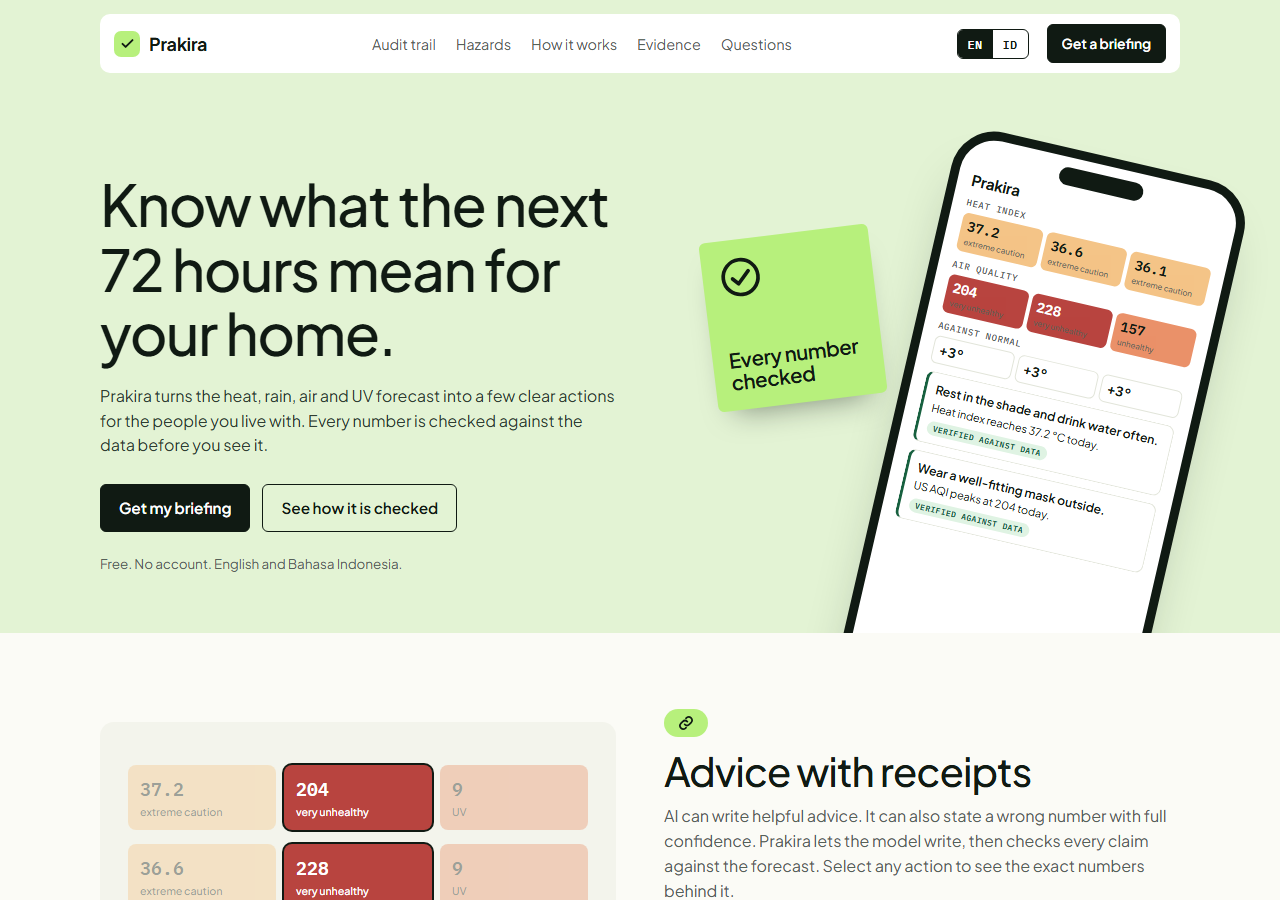
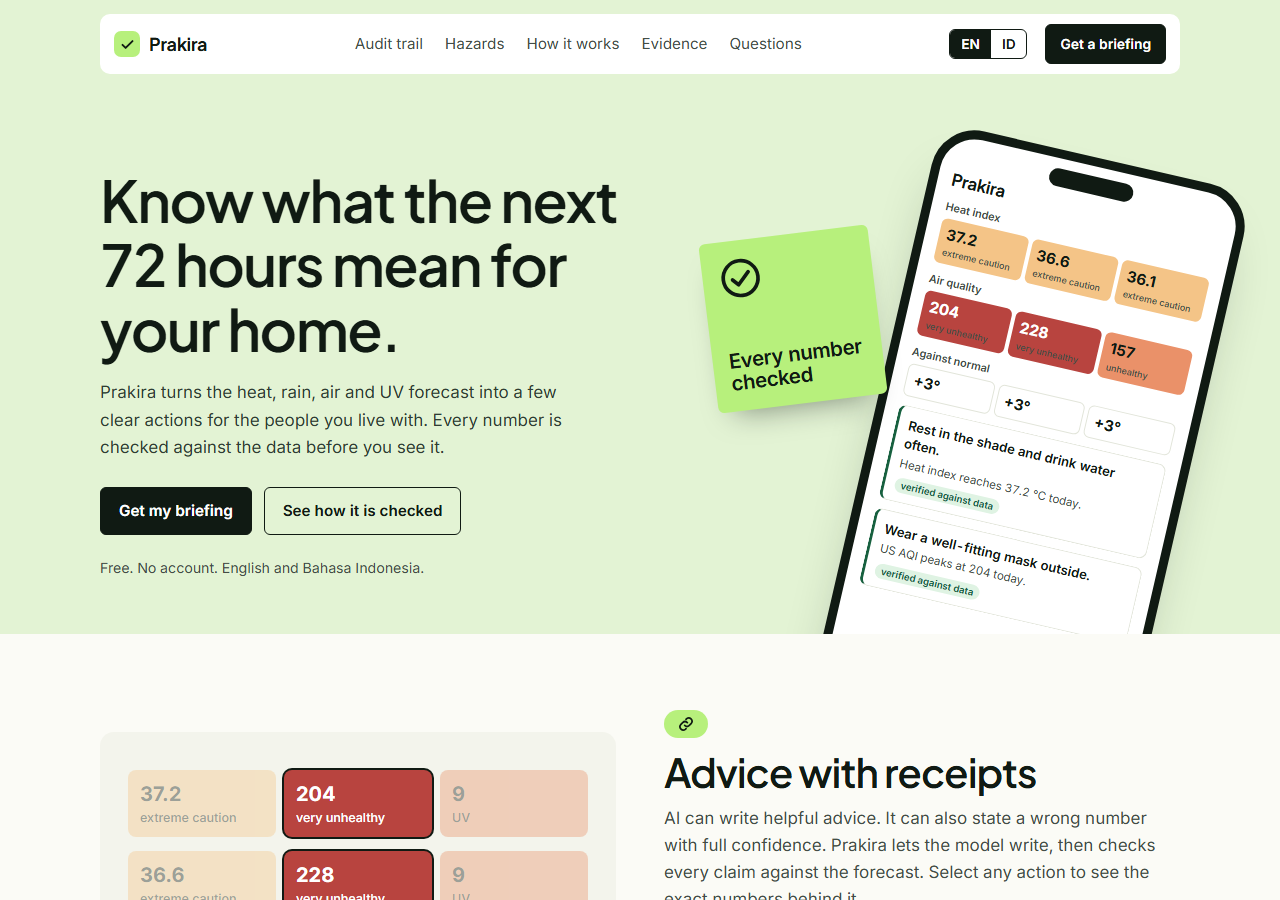
style: readability pass on the page
Drop the monospace face and the small uppercase labels, use Inter for text and
numbers with Plus Jakarta Sans for headings, raise text sizes and the contrast
of secondary text.

diff --git a/public/index.html b/public/index.html
@@ -8,25 +8,26 @@
 <meta name="color-scheme" content="light">
 <link rel="preconnect" href="https://fonts.googleapis.com">
 <link rel="preconnect" href="https://fonts.gstatic.com" crossorigin>
-<link href="https://fonts.googleapis.com/css2?family=IBM+Plex+Mono:wght@400;500;600&family=Plus+Jakarta+Sans:wght@400;500;600;700&display=swap" rel="stylesheet">
+<link href="https://fonts.googleapis.com/css2?family=Inter:wght@400;500;600;700&family=Plus+Jakarta+Sans:wght@500;600;700&display=swap" rel="stylesheet">
 <style>
   :root {
-    --paper:#fbfbf6; --card:#ffffff; --ink:#101a13; --mut:#566159; --rule:#e2e5da; --soft:#f3f4ec; --focus:#0b5fff;
+    --paper:#fbfbf6; --card:#ffffff; --ink:#101a13; --mut:#434d46; --rule:#e2e5da; --soft:#f3f4ec; --focus:#0b5fff;
     --hero:#e3f3d4; --lime:#b7f07c; --mint:#93efd9; --lilac:#dcaaf6; --bad:#a3322d;
     --ok:#17603f; --ok-bg:#dff3e3;
     /* One sequential severity scale, ordered by lightness so it still reads in greyscale. */
     --t0:#e9efe4; --t1:#f6e9b3; --t2:#f4c487; --t3:#ea9169; --t4:#b8443f; --t4-ink:#fff;
-    --mono:"IBM Plex Mono", ui-monospace, "Cascadia Mono", Consolas, monospace;
-    --sans:"Plus Jakarta Sans", system-ui, -apple-system, "Segoe UI", sans-serif;
+    --sans:"Inter", system-ui, -apple-system, "Segoe UI", Roboto, sans-serif;
+    --mono:var(--sans);
+    --head:"Plus Jakarta Sans", "Inter", system-ui, sans-serif;
   }
   * { box-sizing:border-box; }
   html { -webkit-text-size-adjust:100%; scroll-behavior:smooth; }
-  body { margin:0; background:var(--paper); color:var(--ink); font:16px/1.55 var(--sans); }
+  body { margin:0; background:var(--paper); color:var(--ink); font:17px/1.6 var(--sans); font-variant-numeric:tabular-nums; }
   :focus-visible { outline:2px solid var(--focus); outline-offset:2px; }
   button, input { font:inherit; color:inherit; }
   a { color:inherit; }
   .wrap { max-width:1120px; margin:0 auto; padding:0 20px; }
-  h1, h2, h3 { font-weight:500; letter-spacing:-.025em; line-height:1.12; margin:0; }
+  h1, h2, h3 { font-family:var(--head); font-weight:600; letter-spacing:-.025em; line-height:1.12; margin:0; }
   h2.big { font-size:clamp(1.7rem, 3.4vw, 2.5rem); }
   .center { text-align:center; }
   .lede { color:var(--mut); margin:10px auto 0; max-width:56ch; }
@@ -38,13 +39,13 @@
   /* Nav */
   .top { background:var(--hero); padding-top:14px; }
   nav { background:#fff; border-radius:10px; padding:10px 14px; display:flex; align-items:center; gap:18px; }
-  .logo { display:flex; align-items:center; gap:9px; font-weight:700; font-size:1.12rem; letter-spacing:-.02em; text-decoration:none; }
+  .logo { font-family:var(--head); display:flex; align-items:center; gap:9px; font-weight:700; font-size:1.12rem; letter-spacing:-.02em; text-decoration:none; }
   .logo i { width:26px; height:26px; border-radius:7px; background:var(--lime); display:grid; place-items:center; }
-  .links { display:flex; gap:20px; margin:0 auto; font-size:.9rem; }
+  .links { display:flex; gap:22px; margin:0 auto; font-size:.95rem; }
   .links a { text-decoration:none; color:var(--mut); }
   .links a:hover { color:var(--ink); }
   .seg { display:inline-flex; border:1.5px solid var(--ink); border-radius:6px; overflow:hidden; }
-  .seg button { border:0; background:transparent; padding:6px 10px; font:600 .78rem var(--mono); cursor:pointer; }
+  .seg button { border:0; background:transparent; padding:6px 11px; font:600 .85rem var(--sans); cursor:pointer; }
   .seg button[aria-pressed="true"] { background:var(--ink); color:#fff; }
   nav .btn { padding:8px 14px; font-size:.86rem; }
 
@@ -56,89 +57,89 @@
   .hero .cta { display:flex; gap:12px; flex-wrap:wrap; align-items:center; }
   .hero small { display:block; margin-top:22px; color:var(--mut); }
   .stage { position:relative; height:520px; }
-  .phone { position:absolute; right:-10px; top:36px; width:300px; height:600px; background:#fff; border:9px solid var(--ink); border-radius:44px; transform:rotate(13deg); box-shadow:0 30px 60px -30px rgba(16,26,19,.45); padding:34px 14px 14px; overflow:hidden; }
+  .phone { position:absolute; right:-10px; top:36px; width:320px; height:600px; background:#fff; border:9px solid var(--ink); border-radius:44px; transform:rotate(13deg); box-shadow:0 30px 60px -30px rgba(16,26,19,.45); padding:34px 14px 14px; overflow:hidden; }
   .phone::before { content:""; position:absolute; top:10px; left:50%; width:86px; height:18px; margin-left:-43px; background:var(--ink); border-radius:12px; }
-  .phone .ph { font:700 .95rem var(--sans); letter-spacing:-.02em; margin-bottom:2px; }
-  .phone .pl { font:500 .56rem var(--mono); letter-spacing:.08em; text-transform:uppercase; color:var(--mut); margin:8px 0 5px; }
+  .phone .ph { font:700 1.05rem var(--head); letter-spacing:-.02em; margin-bottom:4px; }
+  .phone .pl { font:600 .68rem var(--sans); color:var(--mut); margin:10px 0 5px; }
   .mini { display:grid; grid-template-columns:repeat(3, 1fr); gap:4px; }
-  .mini div { border-radius:6px; padding:6px 6px 5px; font:600 .86rem/1.1 var(--mono); }
-  .mini div small { display:block; font:500 .5rem var(--sans); margin-top:3px; opacity:.9; }
-  .pc { border:1px solid var(--rule); border-left:3px solid var(--ok); border-radius:8px; padding:8px 9px; margin-top:8px; font-size:.68rem; line-height:1.35; }
-  .pc b { display:block; font-size:.76rem; font-weight:600; margin-bottom:3px; }
-  .pc span { display:inline-block; margin-top:5px; font:600 .5rem var(--mono); letter-spacing:.06em; text-transform:uppercase; color:var(--ok); background:var(--ok-bg); border-radius:99px; padding:2px 6px; }
+  .mini div { border-radius:6px; padding:7px 7px 6px; font:700 .95rem/1.2 var(--sans); min-width:0; }
+  .mini div small { display:block; font:500 .56rem/1.25 var(--sans); margin-top:3px; }
+  .pc { border:1px solid var(--rule); border-left:3px solid var(--ok); border-radius:8px; padding:9px 10px; margin-top:9px; font-size:.72rem; line-height:1.4; color:var(--mut); }
+  .pc b { display:block; font-size:.82rem; font-weight:600; margin-bottom:3px; color:var(--ink); }
+  .pc span { display:inline-block; margin-top:6px; font:600 .6rem var(--sans); color:var(--ok); background:var(--ok-bg); border-radius:99px; padding:2px 6px; }
   .sticker { z-index:2; position:absolute; left:6%; top:120px; width:170px; height:170px; background:var(--lime); border-radius:6px; transform:rotate(-7deg); padding:16px; display:flex; flex-direction:column; justify-content:space-between; box-shadow:0 18px 30px -18px rgba(16,26,19,.5); }
   .sticker b { font-size:1.28rem; line-height:1.1; font-weight:600; letter-spacing:-.02em; }
-  .ex { position:absolute; right:14px; bottom:8px; font:500 .62rem var(--mono); color:var(--mut); }
+  .ex { position:absolute; right:14px; bottom:8px; font:500 .66rem var(--sans); color:var(--mut); }
 
   /* Meet */
   .two { display:grid; grid-template-columns:1fr 1fr; gap:48px; align-items:center; }
   .art { background:var(--soft); border-radius:14px; padding:28px; min-height:360px; display:grid; align-content:center; gap:14px; }
   .art .row { display:grid; grid-template-columns:repeat(3, 1fr); gap:8px; }
-  .art .c { border-radius:8px; padding:12px; font:600 1.15rem var(--mono); background:var(--t0); opacity:.38; }
+  .art .c { border-radius:8px; padding:12px; font:700 1.25rem var(--sans); background:var(--t0); opacity:.38; }
   .art .c.on { opacity:1; box-shadow:0 0 0 2px var(--ink); }
-  .art .c small { display:block; font:500 .66rem var(--sans); margin-top:4px; }
+  .art .c small { display:block; font:500 .78rem var(--sans); margin-top:4px; }
   .art .card { background:#fff; border:1.5px solid var(--ink); border-left:5px solid var(--ok); border-radius:10px; padding:14px 16px; }
   .art .card b { display:block; font-weight:600; }
-  .art .card p { margin:4px 0 0; color:var(--mut); font-size:.88rem; }
-  .art .card p em { font:500 .84em var(--mono); font-style:normal; color:var(--ink); background:var(--soft); border:1px solid var(--rule); border-radius:4px; padding:0 4px; }
+  .art .card p { margin:4px 0 0; color:var(--mut); font-size:.98rem; }
+  .art .card p em { font:600 .95em var(--sans); font-style:normal; color:var(--ink); background:var(--soft); border:1px solid var(--rule); border-radius:4px; padding:0 4px; }
   .art .wire { height:22px; border-left:2px dashed var(--ink); margin-left:40px; }
   .pillico { width:44px; height:28px; border-radius:99px; background:var(--lime); display:grid; place-items:center; margin-bottom:12px; }
   .acc { margin-top:20px; }
   .acc summary { list-style:none; cursor:pointer; padding:9px 0; display:flex; align-items:center; gap:12px; font-weight:500; }
   .acc summary::-webkit-details-marker { display:none; }
-  .acc summary::before { content:"+"; font:400 1rem/1 var(--mono); width:22px; height:22px; flex:none; display:grid; place-items:center; border:1px solid var(--rule); border-radius:4px; background:#fff; }
+  .acc summary::before { content:"+"; font:400 1.05rem/1 var(--sans); width:22px; height:22px; flex:none; display:grid; place-items:center; border:1px solid var(--rule); border-radius:4px; background:#fff; }
   .acc details[open] summary::before { content:"−"; }
-  .acc p { margin:0 0 12px 34px; color:var(--mut); font-size:.93rem; }
+  .acc p { margin:0 0 12px 34px; color:var(--mut); font-size:1rem; }
 
   /* Hazard cards */
   .cards { display:grid; grid-template-columns:repeat(4, 1fr); gap:14px; margin-top:34px; }
   .hz .pic { border-radius:4px; aspect-ratio:1 / 1; display:grid; place-items:center; position:relative; overflow:hidden; }
   .hz .pic svg { width:42%; height:42%; }
-  .hz .pic span { position:absolute; left:12px; bottom:10px; font:600 .64rem var(--mono); letter-spacing:.06em; text-transform:uppercase; }
+  .hz .pic span { position:absolute; left:14px; bottom:12px; font:500 .88rem var(--sans); }
   .hz h3 { font-size:1.45rem; margin:16px 0 8px; }
-  .hz p { margin:0; font-size:.9rem; color:var(--mut); }
+  .hz p { margin:0; font-size:.98rem; color:var(--mut); }
   .hz.a .pic { background:#f8dcb4; } .hz.b .pic { background:#cfe6f5; } .hz.c .pic { background:var(--lilac); } .hz.d .pic { background:#fbf0a8; }
 
   /* Tool */
   #tool { background:var(--soft); }
   .panel { background:#fff; border-radius:16px; padding:26px; margin-top:30px; box-shadow:0 1px 0 var(--rule); }
   .setup { display:grid; gap:16px; }
-  .label { font:600 .72rem var(--mono); letter-spacing:.08em; text-transform:uppercase; color:var(--mut); display:block; margin-bottom:7px; }
+  .label { font:600 .95rem var(--sans); color:var(--ink); color:var(--mut); display:block; margin-bottom:7px; }
   #q { width:100%; padding:13px 15px; border:1.5px solid var(--rule); border-radius:8px; background:var(--soft); font-size:1.02rem; }
   #q:focus { border-color:var(--ink); background:#fff; outline:none; }
   #sugg { display:flex; flex-wrap:wrap; align-items:center; gap:6px; margin-top:9px; }
-  .pill { border:1px solid var(--rule); background:#fff; border-radius:999px; padding:6px 12px; cursor:pointer; font-size:.9rem; }
+  .pill { border:1px solid var(--rule); background:#fff; border-radius:999px; padding:7px 14px; cursor:pointer; font-size:.95rem; }
   .pill:hover { border-color:var(--ink); }
-  #picked { margin:9px 0 0; font:500 .86rem var(--mono); }
+  #picked { margin:9px 0 0; font:500 .95rem var(--sans); }
   .chips { display:flex; flex-wrap:wrap; gap:8px; }
-  .chips label { display:inline-flex; align-items:center; gap:6px; padding:8px 13px; border:1px solid var(--rule); border-radius:999px; background:#fff; cursor:pointer; font-size:.9rem; }
+  .chips label { display:inline-flex; align-items:center; gap:6px; padding:8px 13px; border:1px solid var(--rule); border-radius:999px; background:#fff; cursor:pointer; font-size:.95rem; }
   .chips label:has(input:checked) { border-color:var(--ink); background:var(--lime); font-weight:600; }
   .chips input { position:absolute; opacity:0; width:1px; height:1px; }
   .chips label:has(input:focus-visible) { outline:2px solid var(--focus); outline-offset:2px; }
   .msg { margin:0; color:var(--mut); }
   .err { color:var(--bad); font-weight:500; }
   #out section { padding:26px 0 0; }
-  #out h2 { font:600 .72rem var(--mono); letter-spacing:.08em; text-transform:uppercase; color:var(--mut); margin:0 0 12px; }
+  #out h2 { font:600 1rem var(--sans); color:var(--ink); color:var(--mut); margin:0 0 12px; }
 
   .strip { display:grid; grid-template-columns:minmax(52px, 92px) repeat(3, minmax(0, 1fr)); gap:6px; }
-  .strip .dh { font-weight:600; font-size:.9rem; padding:0 2px 4px; }
-  .strip .dh small { display:block; font:400 .7rem var(--mono); color:var(--mut); text-transform:uppercase; letter-spacing:.06em; }
-  .strip .rh { font:600 .7rem var(--mono); letter-spacing:.06em; text-transform:uppercase; color:var(--mut); align-self:center; }
-  .cell { position:relative; border:1px solid transparent; border-radius:8px; padding:9px 9px 8px; cursor:pointer; min-height:78px; display:flex; flex-direction:column; justify-content:space-between; background:var(--t0); transition:opacity .15s, box-shadow .15s; }
+  .strip .dh { font-weight:600; font-size:1rem; padding:0 2px 4px; }
+  .strip .dh small { display:block; font:400 .82rem var(--sans); color:var(--mut); }
+  .strip .rh { font:600 .88rem var(--sans); color:var(--ink); color:var(--mut); align-self:center; }
+  .cell { position:relative; border:1px solid transparent; border-radius:8px; padding:9px 9px 8px; cursor:pointer; min-height:92px; display:flex; flex-direction:column; justify-content:space-between; background:var(--t0); transition:opacity .15s, box-shadow .15s; }
   .cell.t1 { background:var(--t1); } .cell.t2 { background:var(--t2); } .cell.t3 { background:var(--t3); } .cell.t4 { background:var(--t4); color:var(--t4-ink); }
   .cell.na { background:transparent; border:1px dashed var(--rule); cursor:default; color:var(--mut); font-size:.8rem; }
   .cell.ctx { background:#fff; border:1px solid var(--rule); cursor:default; }
-  .num { font:600 1.4rem/1.1 var(--mono); letter-spacing:-.02em; }
-  .num small { font:400 .7rem var(--mono); margin-left:2px; opacity:.85; }
-  .lvl { font-size:.74rem; line-height:1.2; font-weight:600; margin-top:4px; }
-  .sub2 { font:400 .68rem var(--mono); opacity:.85; }
-  .cell .cmp { position:absolute; top:6px; right:7px; font:600 .6rem var(--mono); border:1px solid currentColor; border-radius:4px; padding:0 3px; }
+  .num { font:700 1.5rem/1.1 var(--sans); letter-spacing:-.02em; }
+  .num small { font:500 .8rem var(--sans); margin-left:2px; opacity:.85; }
+  .lvl { font-size:.84rem; line-height:1.25; font-weight:600; margin-top:6px; }
+  .sub2 { font:400 .8rem var(--sans); opacity:.9; }
+  .cell .cmp { position:absolute; top:7px; right:8px; font:600 .7rem var(--sans); border:1px solid currentColor; border-radius:4px; padding:0 3px; }
   .bar { position:relative; height:6px; background:var(--rule); border-radius:3px; margin-top:6px; }
   .bar i { position:absolute; top:-3px; left:50%; width:1px; height:12px; background:var(--mut); }
   .bar b { position:absolute; top:-2px; width:10px; height:10px; margin-left:-5px; border-radius:50%; background:var(--ink); }
   .dim .cell:not(.lit):not(.ctx):not(.na), .dim .item:not(.lit) { opacity:.3; }
   .cell.lit { box-shadow:0 0 0 2px var(--ink); }
-  .note { margin:10px 0 0; font-size:.82rem; color:var(--mut); }
+  .note { margin:12px 0 0; font-size:.9rem; color:var(--mut); }
 
   .items { display:grid; gap:10px; }
   .item { background:#fff; border:1.5px solid var(--rule); border-left:5px solid var(--ok); border-radius:10px; padding:15px 17px; cursor:pointer; transition:opacity .15s; }
@@ -147,28 +148,28 @@
   .item.notice.lit, .item.compound.lit { border-left-color:#9aa39c; }
   .item h3 { font-size:1.2rem; font-weight:600; letter-spacing:-.015em; line-height:1.3; margin:0 0 6px; }
   .item.notice h3, .item.compound h3 { font-size:1rem; font-weight:500; }
-  .item p { margin:0; color:var(--mut); font-size:.93rem; }
-  .item p b { font:500 .9em var(--mono); color:var(--ink); background:var(--soft); border:1px solid var(--rule); border-radius:4px; padding:0 4px; white-space:nowrap; }
-  .badge { display:inline-block; margin-top:10px; font:600 .66rem var(--mono); letter-spacing:.06em; text-transform:uppercase; padding:3px 9px; border-radius:999px; border:1px solid var(--rule); color:var(--mut); background:#fff; }
+  .item p { margin:0; color:var(--mut); font-size:1rem; }
+  .item p b { font:600 .95em var(--sans); color:var(--ink); background:var(--soft); border:1px solid var(--rule); border-radius:4px; padding:0 4px; white-space:nowrap; }
+  .badge { display:inline-block; margin-top:10px; font:600 .8rem var(--sans); padding:3px 9px; border-radius:999px; border:1px solid var(--rule); color:var(--mut); background:#fff; }
   .badge.ok { background:var(--ok-bg); border-color:transparent; color:var(--ok); }
   .quiet { background:var(--hero); border-radius:10px; padding:20px; font-size:1.15rem; font-weight:500; letter-spacing:-.01em; }
   #out details { background:#fff; border:1.5px solid var(--rule); border-radius:10px; }
   #out summary { padding:13px 16px; cursor:pointer; font-weight:600; color:var(--ok); }
-  .audit { padding:0 16px 16px; display:grid; gap:12px; font-size:.9rem; }
-  .audit h4 { margin:0 0 4px; font:600 .7rem var(--mono); letter-spacing:.06em; text-transform:uppercase; color:var(--mut); }
+  .audit { padding:0 16px 16px; display:grid; gap:14px; font-size:.95rem; }
+  .audit h4 { margin:0 0 4px; font:600 .95rem var(--sans); color:var(--ink); color:var(--mut); }
   .audit ul { margin:0; padding-left:18px; } .audit li { margin:2px 0; }
-  .rej { font:400 .84rem var(--mono); }
+  .rej { font-size:.92rem; }
   .skel { border-radius:8px; background:linear-gradient(90deg, var(--rule), #fff, var(--rule)); background-size:200% 100%; animation:sh 1.2s linear infinite; min-height:78px; }
   @keyframes sh { to { background-position:-200% 0; } }
 
   /* Process */
   .steps { list-style:none; margin:22px 0 0; padding:0; counter-reset:s; display:grid; gap:10px; }
-  .steps li { counter-increment:s; display:grid; grid-template-columns:24px 1fr; gap:12px; align-items:start; }
-  .steps li::before { content:counter(s); font:500 .82rem/22px var(--mono); width:22px; height:22px; text-align:center; border:1px solid var(--rule); border-radius:4px; background:#fff; }
+  .steps li { counter-increment:s; display:grid; grid-template-columns:26px 1fr; gap:12px; align-items:start; }
+  .steps li::before { content:counter(s); font:600 .9rem/24px var(--sans); width:24px; height:24px; text-align:center; border:1px solid var(--rule); border-radius:4px; background:#fff; }
   .pipe { background:var(--soft); border-radius:14px; padding:26px; display:grid; gap:10px; }
   .pipe div { background:#fff; border-radius:10px; padding:13px 15px; display:flex; justify-content:space-between; align-items:center; gap:12px; font-weight:500; }
-  .pipe div.ai { background:var(--lilac); } .pipe div.v { background:var(--lime); }
-  .pipe span { font:600 .62rem var(--mono); letter-spacing:.06em; text-transform:uppercase; border:1px solid currentColor; border-radius:99px; padding:2px 8px; white-space:nowrap; }
+  .pipe div.ai { background:var(--lilac); } .pipe div.v { background:var(--lime); } .pipe div.ai span, .pipe div.v span { color:#1c2a20; }
+  .pipe span { font:500 .85rem var(--sans); color:var(--mut); white-space:nowrap; }
   .pipe i { justify-self:center; font-style:normal; color:var(--mut); line-height:.6; }
 
   /* Evidence */
@@ -176,11 +177,11 @@
   .stat { border-radius:6px; padding:24px; text-align:center; }
   .stat.a { background:var(--mint); } .stat.b { background:var(--lime); } .stat.c { background:var(--lilac); }
   .stat h3 { font-size:1.15rem; }
-  .stat .n { font:600 3.2rem/1 var(--mono); letter-spacing:-.04em; margin:22px 0 8px; }
-  .stat p { margin:0; font-size:.86rem; color:#223027; }
-  .fine { font-size:.78rem; color:var(--mut); margin:18px auto 0; max-width:80ch; }
+  .stat .n { font:700 3.2rem/1 var(--head); letter-spacing:-.04em; margin:22px 0 8px; }
+  .stat p { margin:0; font-size:.95rem; color:#223027; }
+  .fine { font-size:.88rem; color:var(--mut); margin:18px auto 0; max-width:80ch; }
 
-  footer { border-top:1px solid var(--rule); padding:26px 0 50px; color:var(--mut); font-size:.84rem; }
+  footer { border-top:1px solid var(--rule); padding:26px 0 50px; color:var(--mut); font-size:.92rem; }
   footer .wrap { display:flex; justify-content:space-between; gap:20px; flex-wrap:wrap; }
 
   @media (prefers-reduced-motion: reduce) { html { scroll-behavior:auto; } .skel { animation:none; } .cell, .item { transition:none; } }
@@ -193,9 +194,9 @@
   }
   @media (max-width:520px) {
     .wrap { padding:0 14px; } nav .btn { display:none; } .panel { padding:16px; }
-    .strip { grid-template-columns:42px repeat(3, minmax(0, 1fr)); gap:4px; }
-    .strip .rh { font-size:.6rem; letter-spacing:.02em; }
-    .cell { padding:6px 6px 5px; min-height:72px; } .num { font-size:1.08rem; } .lvl { font-size:.66rem; } .sub2 { font-size:.6rem; }
+    .strip { grid-template-columns:46px repeat(3, minmax(0, 1fr)); gap:4px; }
+    .strip .rh { font-size:.74rem; }
+    .cell { padding:7px 6px 6px; min-height:88px; } .num { font-size:1.15rem; } .lvl { font-size:.74rem; } .sub2 { font-size:.7rem; }
     .cell .cmp { position:static; align-self:flex-start; margin-top:3px; }
     .item h3 { font-size:1.08rem; } .stage { height:360px; } .hz h3 { font-size:1.2rem; }
   }
